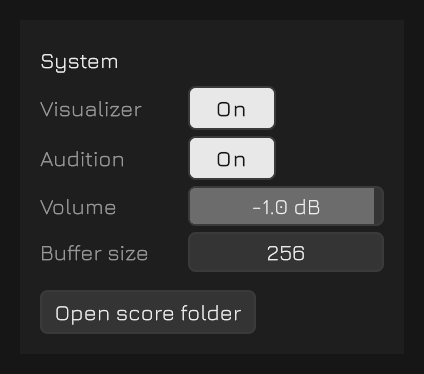
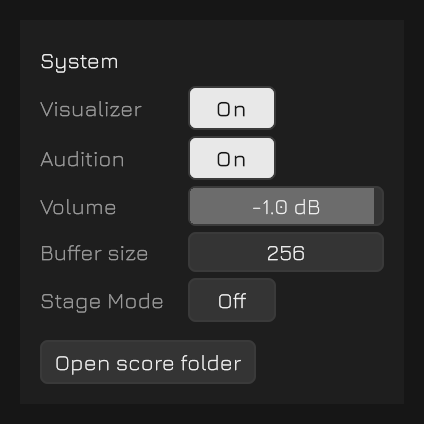
Give the System panel its Stage Mode row and retake its picture, since the app has grown a switch at the foot of that panel and a guide whose table of what a panel holds is one row short of the panel is a guide the reader has to correct
The row says the two things a reader cannot find out by looking: that the mode
starts off, and that turning it on takes Save off the transport row, takes the ?
with it, and stops a double click on a bar opening a field to type in. What it
does not say is why any of those three go or what is deliberately left alone,
because the panel's other rows do not argue either — this table says what a
setting is and what it does, and the reasoning is the app's own to keep.

The picture is taken the way the other five are: play mode, a panel scale of 2,
the visualizer off, cropped to the panel's own bounds plus a margin of ten units,
with the plane panned so nothing but lattice dots falls in that margin. The panel
is at its shipped state throughout — Visualizer on, Audition on, volume at the
decibel every machine starts on, 256 frames, and the new switch off — so the
picture is the panel as it is met rather than as this machine was left. It is one
row taller than it was, 192 units against 167, which is 424 by 424 at the scale
it is taken at and the height attribute beside it moves from 187 to 212.

diff --git a/index.html b/index.html
@@ -745,7 +745,7 @@
     with a score</strong>; it is remembered for the machine it was set on.</p>
 
     <figure>
-      <img src="assets/screens/system.png" width="212" height="187" alt="The System panel">
+      <img src="assets/screens/system.png" width="212" height="212" alt="The System panel">
     </figure>
 
     <table>
@@ -774,6 +774,13 @@
         app ships with — up to 1024. A longer buffer survives a busy moment and costs that
         much delay between a Live FX button and what comes out. It is taken up at the next
         launch, which the panel says while the two disagree</td>
+      </tr>
+      <tr>
+        <td><span class="ui">Stage Mode</span></td>
+        <td>For playing the app to a room rather than working in it. Starts off. On,
+        <span class="ui">Save</span> leaves the transport row and the
+        <span class="ui">?</span> goes with it, and a double-click on a bar no longer opens
+        a field to type in</td>
       </tr>
       <tr>
         <td><span class="ui">Open score folder</span></td>
